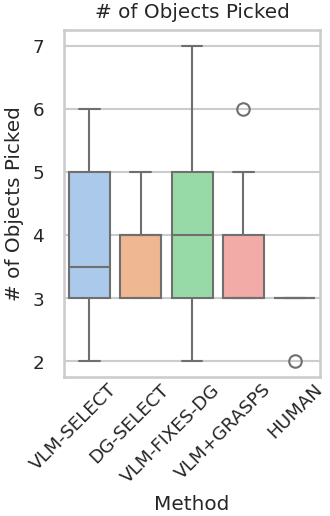
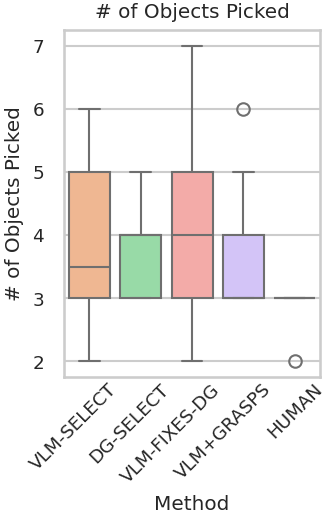
Fix coloring on charts, add dataset generation paragraph

Changed region(s): [[0.5152, 0.3101, 0.8182, 0.5891], [0.2121, 0.3101, 0.3333, 0.5891], [0.3636, 0.4341, 0.4848, 0.5891]]

diff --git a/index.html b/index.html
@@ -168,13 +168,13 @@
     <section id="scenes">
       <div class="section-content">
         <h2 class="header-2">Scenes</h2>
-        <div class="mb-16">
+        <div class="mb-8">
           <h3 class="header-3">Simulated</h3>
           <p class="para">
-            23 simulated scenes were used to test our methods. We used MuJoCo
-            for physics simulation and perception. These scenes were obtained by
-            programmatically generating a large set of scenes that were then
-            filtered down into a set of 23 by scripts and human evaluation.
+            We created 40 unique experiments using 22 simulated scenes, with each scene containing a unique target object. Physics simulation and perception were performed using MuJoCo.
+            These scenes were obtained by programmatically generating a large set of 
+            scenes that were then filtered down by scripts and human evaluation, as documented below. 
+            and multiple objects from each scene were used as target objects, leading to a total of.
             Therefore, the final set of scenes have non-conseuctive IDs. The
             following is an interactive visualization of our simulated scenes.
             The target object is marked by the "0" segmentation in red. You can
@@ -204,9 +204,64 @@
           </div>
         </div>
         <div>
+          <h4 class="header-4">Dataset Generation</h3>
+          <p class="para">
+            An important aspect of the evaluation involved generating useful
+            scenes that are both challenging, i.e., they require multiple object
+            removals till the target is reachable, but are also solvable.
+            Randomly placing objects can frequently lead to scenes without valid
+            grasps. These failure modes may arise due to poor grasp generation
+            or due to complex object-object interactions during retraction,
+            which cannot be trivially resolved even by leveraging privileged
+            perception in simulation. Therefore, in order to focus on the task
+            planning instead of other parts of the pipeline, generating the
+            scene dataset consisted of manual labeling and tuning, as well as
+            filtering using hand-specified rules. This resulted in a dataset of
+            40 TORC experiments, each with a set of objects placed on a tabletop and
+            a target object to be retrieved.
+          </p>
+          <p class="para">
+            To initialize the process, scenes were taken from GraspClutter6d.
+            Each scene from GraspClutter6d consisted of a cluttered arrangement
+            of objects as well as ground-truth grasps for each object. To
+            produce the retrieval-focused scene dataset, the following steps
+            were executed:
+          </p>
+          <ol class="list-decimal ml-12 mb-4 space-y-4">
+            <li>
+              For each scene, an automated script placed objects at the middle
+              of a tabletop in MuJoCo.
+            </li>
+            <li>
+              A human annotator manually labeled candidate targets in each
+              scene, with preference for occluded objects.
+            </li>
+            <li>
+              Candidate targets that were irretrievable were then pruned: For
+              each target, all objects
+              <b class="font-bold">(1)</b> directly in front of it,
+              <b class="font-bold">(2)</b> within 15 cm to the left or right,
+              and <b class="font-bold">(3)</b> taller than the target were
+              recorded. If any of these objects possessed no ground-truth grasps
+              that were collision-free (with the static scene) and IK-feasible,
+              the target was pruned.
+            </li>
+            <li>
+              Scenes were iteratively refined based on feedback from humans.
+              People executed the task planning. If the expert
+              selected the target immediately without removing any other
+              objects, the TORC problem was discarded as trivial. Conversely, if
+              the expert was unable to retrieve the target even after attempting
+              to remove the majority of objects, the scene was adjusted (e.g.,
+              by modifying object poses or adding/removing objects) until it
+              admitted a solution with a task sequence of at least two steps.
+            </li>
+          </ol>
+        </div>
+        <div>
           <h3 class="header-3">Real</h3>
           <p class="para">
-            Three real scenes were used to test the our methods.
+            We created three unique experiments using three real-world scenes to test our methods in a realistic setting.
           </p>
           <div class="real-img-container">
             <div class="real-img">
@@ -325,7 +380,7 @@
         <h2 class="header-2">Experiments</h2>
         <h3 class="header-3">Simulated</h3>
         <p class="para">
-          We evaluated our methods across 23 simulated scenes with five repeated
+          We evaluated our methods across 40 simulated scenes with eight repeated
           runs per scene. Since our data collection method does not record
           videos of runs to save on storage, we've recorded a few simulated
           demonstrations to illustrate how a run might look like. These
@@ -365,6 +420,18 @@
             <img src="/images/charts/sim_2.png" />
             <img src="/images/charts/sim_3.png" />
           </div>
+          <p class="para">
+            Once scenes were validated, 5 different human experts
+            were asked to perform object selection on each of the 40
+            problems, for a total of 200 human trials. The corresponding
+            approach is marked as HUMAN. Each selection strategy
+            (RANDOM, VLM-SELECT, DG-SELECT, VLM+GRASPS,
+            VLM-FIXES-DG) was evaluated 10 times on each problem
+            for a total of 400 experiments per approach. In simulated
+            experiments, ground-truth object instance segmentation from
+            MuJoCo is used to isolate the evaluation of object sequenc-
+            ing.
+          </p>
         </div>
         <div>
           <h3 class="header-3">Real</h3>

diff --git a/src/style.css b/src/style.css
@@ -120,6 +120,10 @@ section:last-of-type > .section-content {
   @apply text-2xl font-semibold mb-2;
 }
 
+.header-4 {
+  @apply text-xl font-semibold mb-2;
+}
+
 .preview-exp-container {
   @apply flex flex-row gap-2 h-40 sm:h-64 md:h-77 mt-2;
 }
